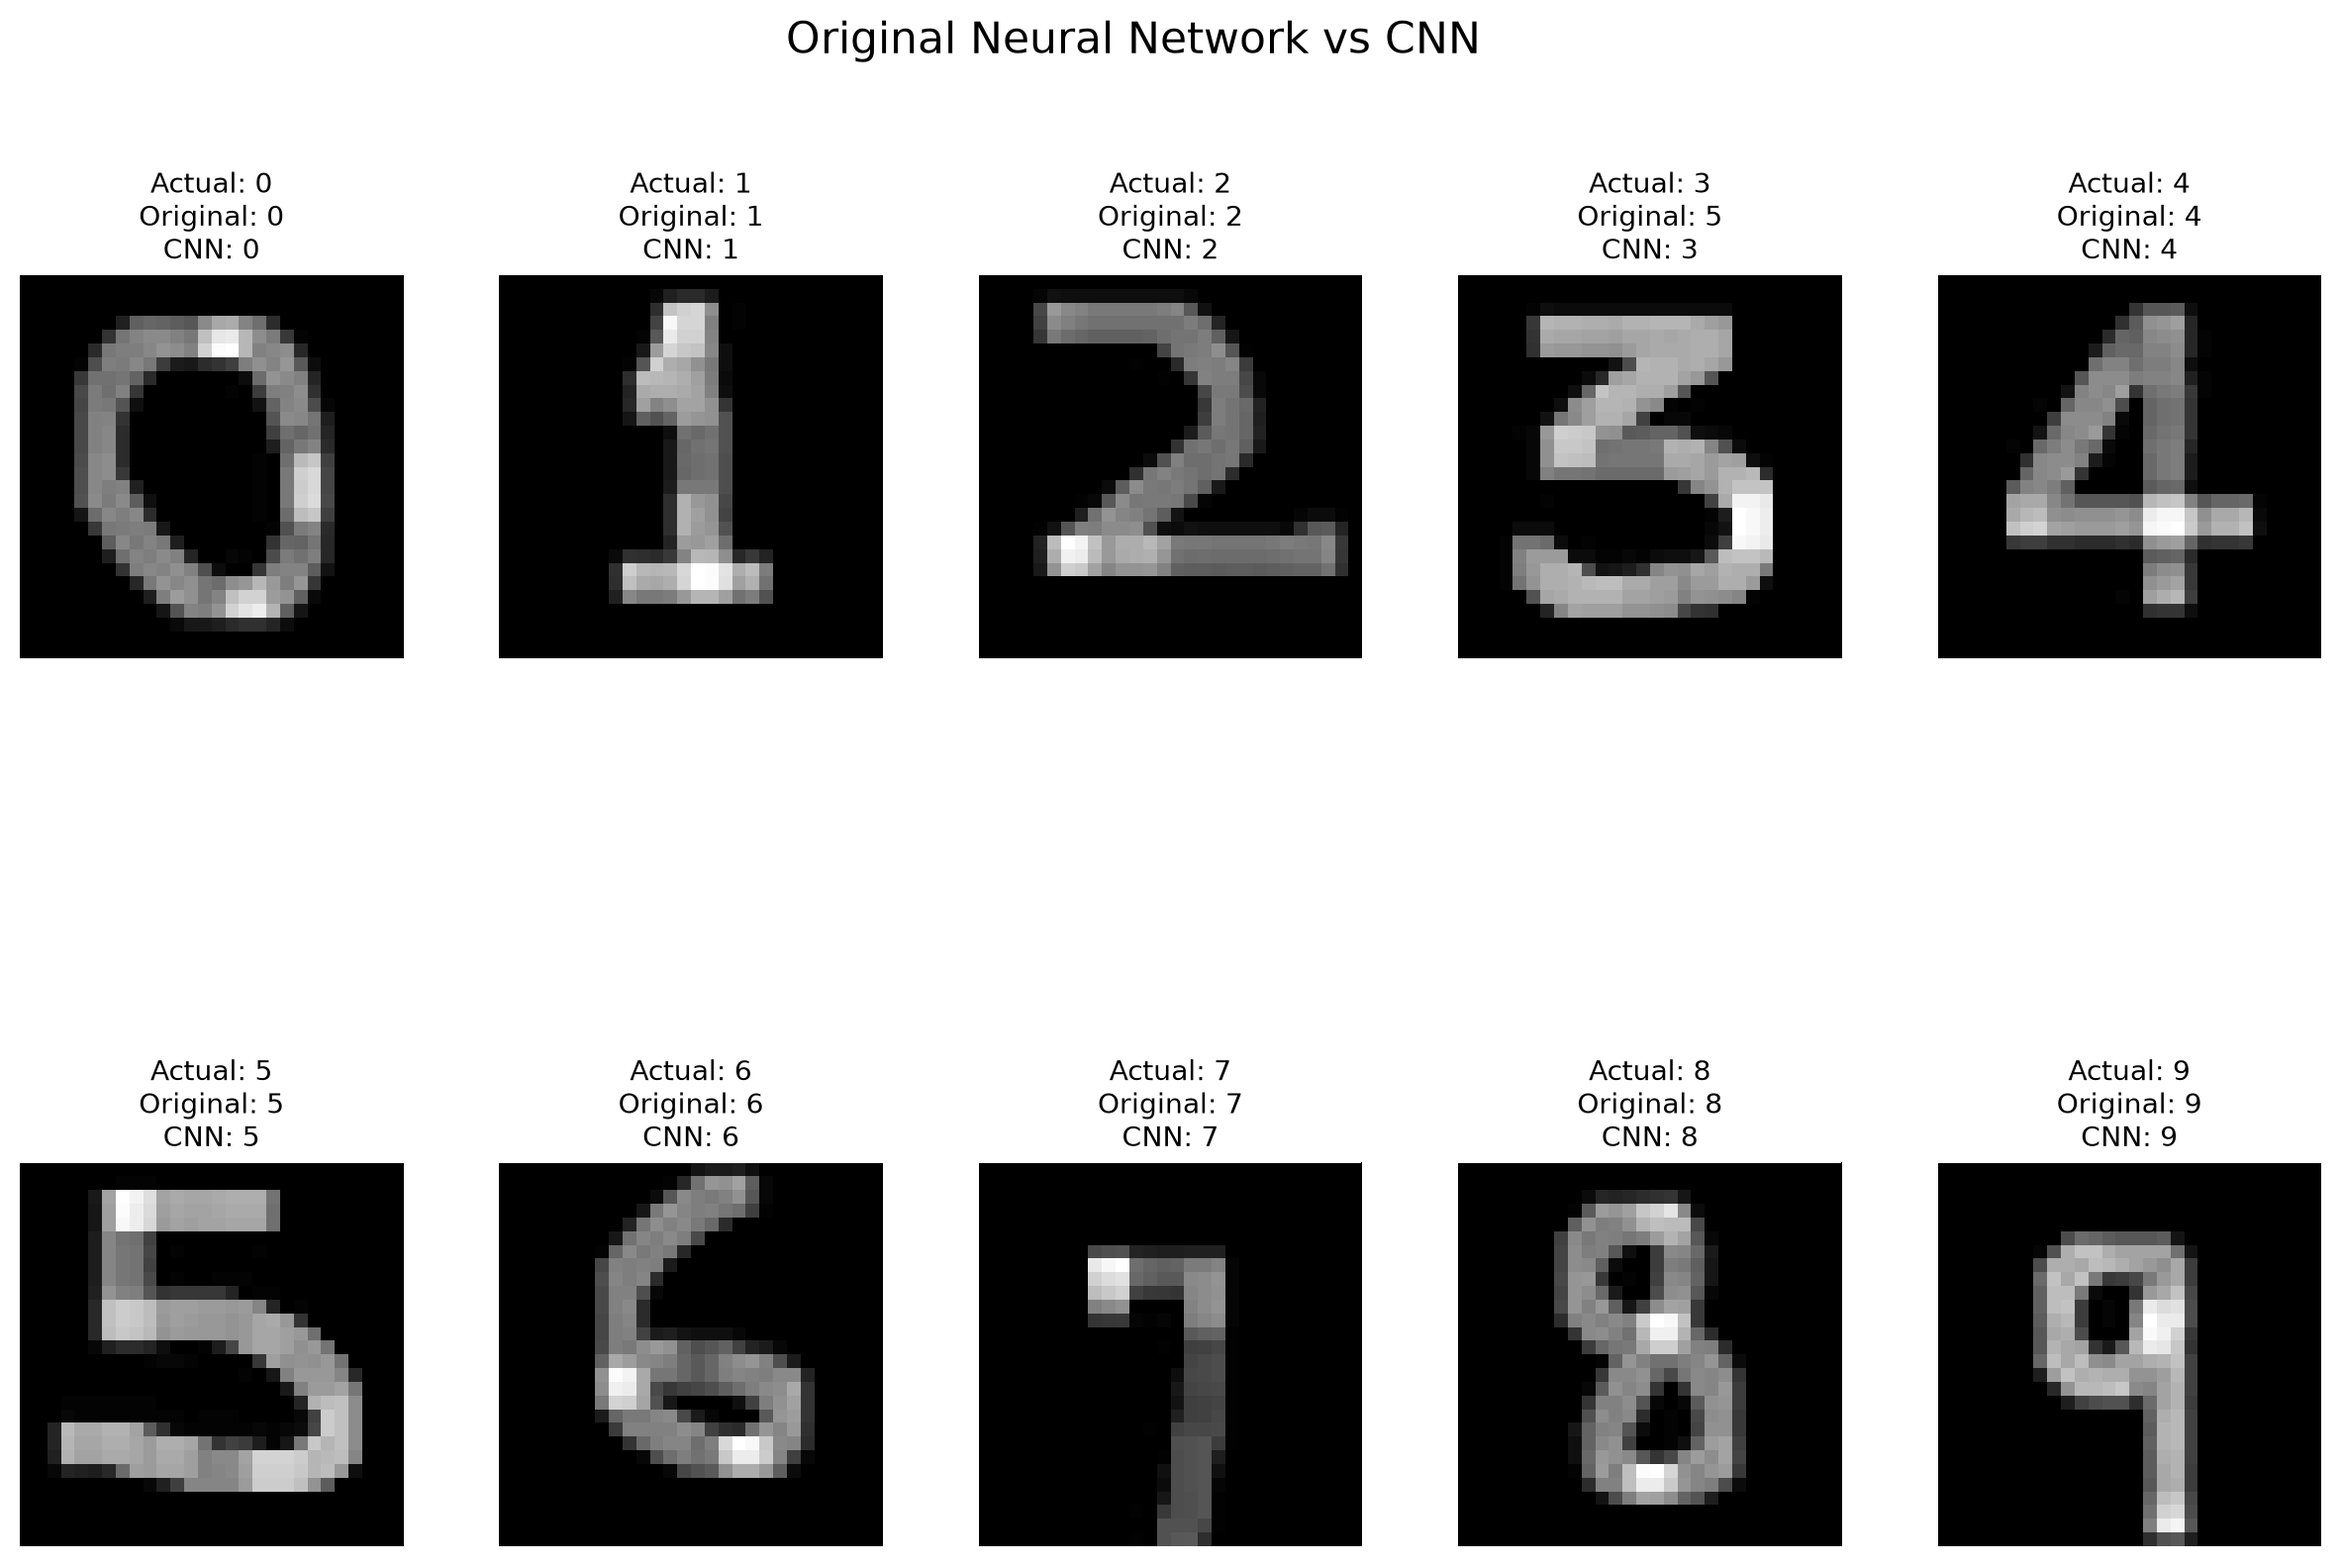
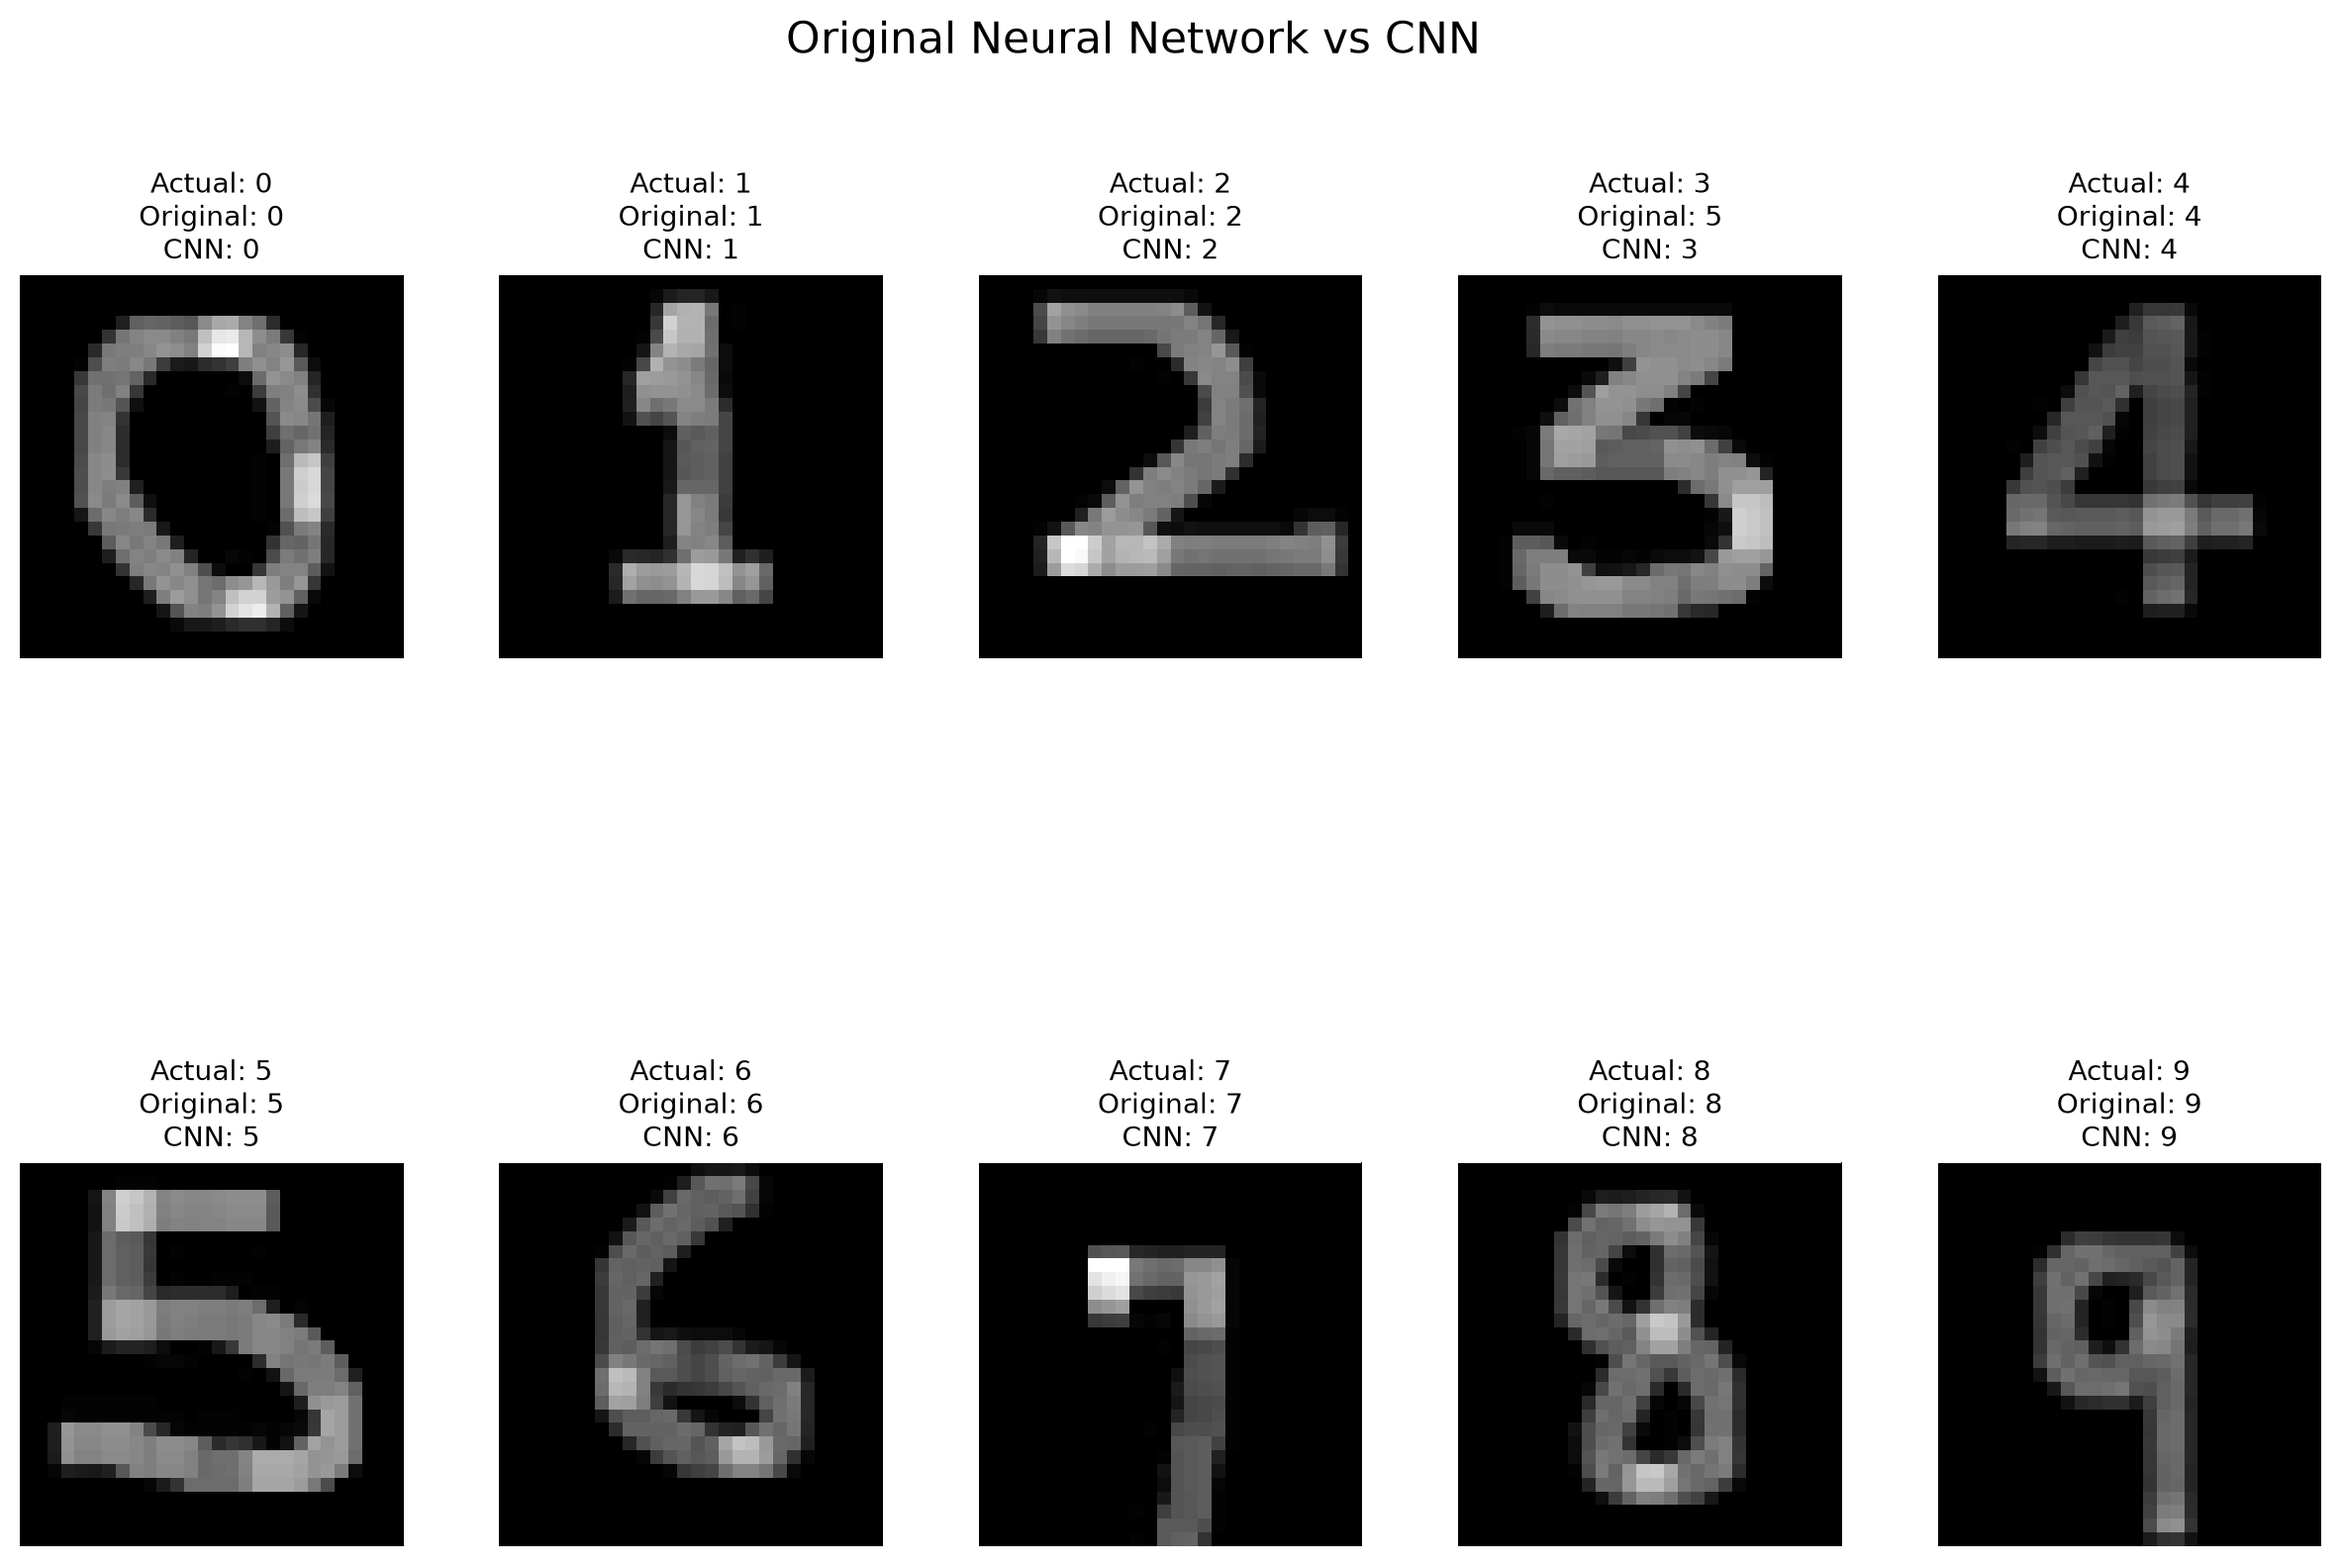
Update project documentation and final model results

diff --git a/README.md b/README.md
@@ -2,16 +2,16 @@
 
 ## 1. Project Overview
 
-This project develops an artificial intelligence system that recognises handwritten digits (0–9) using deep learning.
+This project develops a deep learning system that recognises handwritten digits (0–9) using artificial neural networks.
 
-The project uses the MNIST dataset to train and evaluate two neural network architectures:
+The project uses the MNIST dataset to train and evaluate two different neural network architectures:
 
-1. A traditional feedforward neural network.
+1. A Feedforward Neural Network (FFNN).
 2. A Convolutional Neural Network (CNN).
 
-Both models are also tested using ten handwritten digit images created manually.
+Both models are also tested using ten personally handwritten digit images to investigate how well they recognise handwriting outside the original MNIST dataset.
 
-The main objective is to understand how different neural network architectures learn image features and compare their performance on handwritten digit recognition.
+The main objective is to understand how different neural network architectures learn image features, evaluate their performance, and investigate how image preprocessing can improve classification accuracy.
 
 ## 2. Technologies Used
 
@@ -22,6 +22,7 @@ The main objective is to understand how different neural network architectures l
 - Matplotlib
 - Pillow (PIL)
 - Scikit-learn
+- Git and GitHub
 
 ## 3. Dataset
 
@@ -34,15 +35,15 @@ The MNIST dataset contains:
 - 10 different digit classes (0–9).
 - Grayscale images with dimensions of 28 × 28 pixels.
 
-In addition to the MNIST dataset, ten personally handwritten digit images were created and stored in:
+In addition to MNIST, ten personally handwritten digit images were created and stored in:
 
 `data/MNIST/my_digits/`
 
-These images were used to test how well the trained models recognise handwriting outside the original training dataset.
+These images were used to evaluate how well the trained models recognise handwriting outside the original training dataset.
 
 ## 4. Data Preprocessing and Augmentation
 
-The training images were prepared using PyTorch transforms.
+### Training Data
 
 Data augmentation was applied to the training dataset using:
 
@@ -50,23 +51,31 @@ Data augmentation was applied to the training dataset using:
 - Random translation of up to 10%.
 - Random scaling between 90% and 110%.
 
-The testing dataset was kept unchanged to ensure a consistent evaluation.
+The MNIST testing dataset was kept unchanged to provide consistent evaluation.
 
-For personal handwritten images, preprocessing included:
+### Personal Handwriting Preprocessing
+
+The personally handwritten images underwent the following preprocessing steps:
 
 - Conversion to grayscale.
 - Background inversion when necessary.
-- Cropping around the digit.
+- Cropping around the handwritten digit.
 - Resizing while preserving proportions.
 - Placement on a 28 × 28 black background.
+- Stroke thickening.
 - Centre-of-mass alignment.
+- Brightness enhancement using a factor of 3.0.
 - Conversion into a PyTorch tensor.
 
-These preprocessing steps help make personal handwriting images more compatible with the MNIST image format.
+During experimentation, the CNN initially achieved 80% accuracy on the ten personal handwriting images.
+
+Further investigation showed that the processed images had relatively low pixel intensities. Increasing their brightness significantly improved the CNN's predictions, resulting in 100% accuracy on the same ten images.
+
+This demonstrated the importance of image preprocessing in machine learning.
 
 ## 5. Model Architectures
 
-### Model 1: Feedforward Neural Network
+### Model 1: Feedforward Neural Network (FFNN)
 
 The first model uses a traditional feedforward neural network.
 
@@ -77,7 +86,7 @@ The first model uses a traditional feedforward neural network.
 - ReLU activation function.
 - Output layer: 128 to 10 neurons.
 
-The model produces scores for the ten possible digit classes.
+The output layer produces scores for the ten possible digit classes.
 
 ### Model 2: Convolutional Neural Network (CNN)
 
@@ -100,54 +109,69 @@ The CNN learns visual patterns such as edges, curves and shapes that help distin
 
 ## 6. Training Configuration
 
-Both models were trained using the following configuration:
+Both models use the following main training configuration:
 
 | Parameter | Value |
 |---|---|
 | Dataset | MNIST |
 | Batch size | 64 |
 | Learning rate | 0.001 |
-| Training epochs | 5 |
 | Optimizer | Adam |
 | Loss function | CrossEntropyLoss |
 | Device | CPU |
 
-## 7. Model Evaluation
+**Training epochs:**
 
-The models were evaluated using two sets of images:
+| Model | Epochs |
+|---|---:|
+| Feedforward Neural Network | 5 |
+| Convolutional Neural Network | 10 |
 
-1. The official MNIST test dataset.
+## 7. Model Evaluation and Results
+
+The models were evaluated using two datasets:
+
+1. The official MNIST test dataset containing 10,000 images.
 2. Ten personally handwritten digit images.
 
-The evaluation included the following metrics:
+Evaluation included accuracy, confusion matrices, precision, recall and F1-score.
 
-- Accuracy
-- Confusion matrix
-- Precision
-- Recall
-- F1-score
-
-### MNIST Test Results
+### 7.1 MNIST Test Results
 
 | Model | Test Accuracy |
 |---|---:|
-| Feedforward Neural Network | 96.97% |
-| Convolutional Neural Network (CNN) | 98.82% |
+| Feedforward Neural Network | 96.79% |
+| Convolutional Neural Network | 98.88% |
 
-The CNN achieved higher accuracy on the MNIST test dataset.
+The CNN achieved higher accuracy on the official MNIST test dataset.
 
-### Personal Handwriting Results
+### 7.2 Personal Handwriting Results
+
+After applying the same brightness-enhanced preprocessing to both models, the results were:
 
 | Model | Correct Predictions | Accuracy |
 |---|---:|---:|
 | Feedforward Neural Network | 9/10 | 90% |
 | CNN | 10/10 | 100% |
 
-The original feedforward neural network incorrectly classified the handwritten digit 3 as 5.
+The feedforward neural network incorrectly classified the handwritten digit 3 as 5.
 
 The CNN correctly classified all ten handwritten test images.
 
 **Important:** The personal handwriting evaluation contains only ten images. The 100% accuracy applies only to these ten samples and does not establish general performance on unseen handwriting.
+
+### 7.3 Preprocessing Experiment
+
+One of the important experiments involved improving the brightness of the processed handwritten images.
+
+| CNN Experiment | Correct Predictions | Accuracy |
+|---|---:|---:|
+| Before brightness enhancement | 8/10 | 80% |
+| After brightness enhancement | 10/10 | 100% |
+
+The brightness enhancement factor of 3.0 helped the CNN recognise handwritten digits that it previously misclassified, particularly digits 4 and 8.
+
+This experiment demonstrated that improving input data quality can significantly affect model predictions without changing the trained model architecture or weights.
 
 ## 8. Visual Model Comparison
 
@@ -155,7 +179,7 @@ The following image shows the predictions made by both models on the ten persona
 
 ![Original Neural Network vs CNN](results/model_comparison.png)
 
-The comparison demonstrates the improvement achieved by the CNN in this experiment.
+The comparison shows that the CNN correctly classified all ten handwritten images, while the original feedforward neural network made one incorrect prediction.
 
 ## 9. Project Structure
 
@@ -202,8 +226,6 @@ The comparison demonstrates the improvement achieved by the CNN in this experime
 
 ## 10. How to Run the Project
 
-Follow these steps to set up and run the project on your computer.
-
 ### Step 1: Clone the repository
 
 ```bash
@@ -236,7 +258,7 @@ For Windows PowerShell:
 pip install torch torchvision numpy matplotlib pillow scikit-learn
 ```
 
-### Step 6: Download the MNIST dataset if necessary
+### Step 6: Download the MNIST dataset
 
 ```bash
 python src/download_data.py
@@ -248,7 +270,7 @@ python src/download_data.py
 python src/train.py
 ```
 
-### Step 8: Train the Convolutional Neural Network (CNN)
+### Step 8: Train the CNN
 
 ```bash
 python src/train_cnn.py
@@ -274,7 +296,7 @@ python src/predict_cnn.py
 python src/compare_models.py
 ```
 
-The comparison script generates a visual report showing the predictions made by both models.
+The comparison script evaluates both models on the ten personal handwriting images and generates a visual report in the `results/` directory.
 
 ## 11. What I Learned
 
@@ -284,28 +306,34 @@ Through this project, I gained practical experience in:
 - Preparing images for machine learning.
 - Applying data augmentation.
 - Building neural networks using PyTorch.
+- Understanding feedforward neural networks and CNNs.
 - Training and evaluating deep learning models.
-- Understanding convolutional neural networks.
 - Using confusion matrices and classification reports.
 - Comparing different neural network architectures.
 - Testing models using personally created images.
-- Improving image preprocessing for prediction.
-- Using Git and GitHub to manage and publish a machine learning project.
+- Investigating incorrect predictions.
+- Improving image preprocessing to increase prediction accuracy.
+- Understanding the importance of input data quality.
+- Using Git and GitHub to manage and publish machine learning projects.
 
 ## 12. Conclusion
 
-This project demonstrates the development and evaluation of two deep learning models for handwritten digit recognition.
+This project demonstrates the development, training and evaluation of two deep learning models for handwritten digit recognition.
 
-The CNN achieved better results than the original feedforward neural network on both the MNIST test dataset and the ten personal handwritten samples used in this experiment.
+The CNN achieved 98.88% accuracy on the official MNIST test dataset, compared with 96.79% for the feedforward neural network.
 
-The project provided practical experience in the machine learning workflow, from data preparation and model development to training, evaluation, visualisation and version control.
+On the ten personally handwritten images, the CNN achieved 100% accuracy, while the feedforward neural network achieved 90% after applying the same preprocessing.
 
-It also demonstrated how different neural network architectures can affect the performance of an image classification system.
+An important finding was that brightness enhancement significantly improved the CNN's recognition of personal handwriting without requiring changes to the trained model.
+
+Overall, this project provided practical experience in the machine learning workflow, from data preparation and model development to training, evaluation, experimentation, visualisation and version control.
+
+It also demonstrated how neural network architecture and input preprocessing can influence the performance of an image classification system.
 
 ---
 
 **Project:** AI Engineering Portfolio — Project 01  
 **Topic:** Handwritten Digit Recognition  
 **Framework:** PyTorch  
-**Language:** Python  
-**Repository:** [GitHub - Handwritten Digit Recognition](https://github.com/uchecyril500/Handwritten-digit-recognition)
+**Programming Language:** Python  
+**Repository:** [GitHub – Handwritten Digit Recognition](https://github.com/uchecyril500/Handwritten-digit-recognition)
